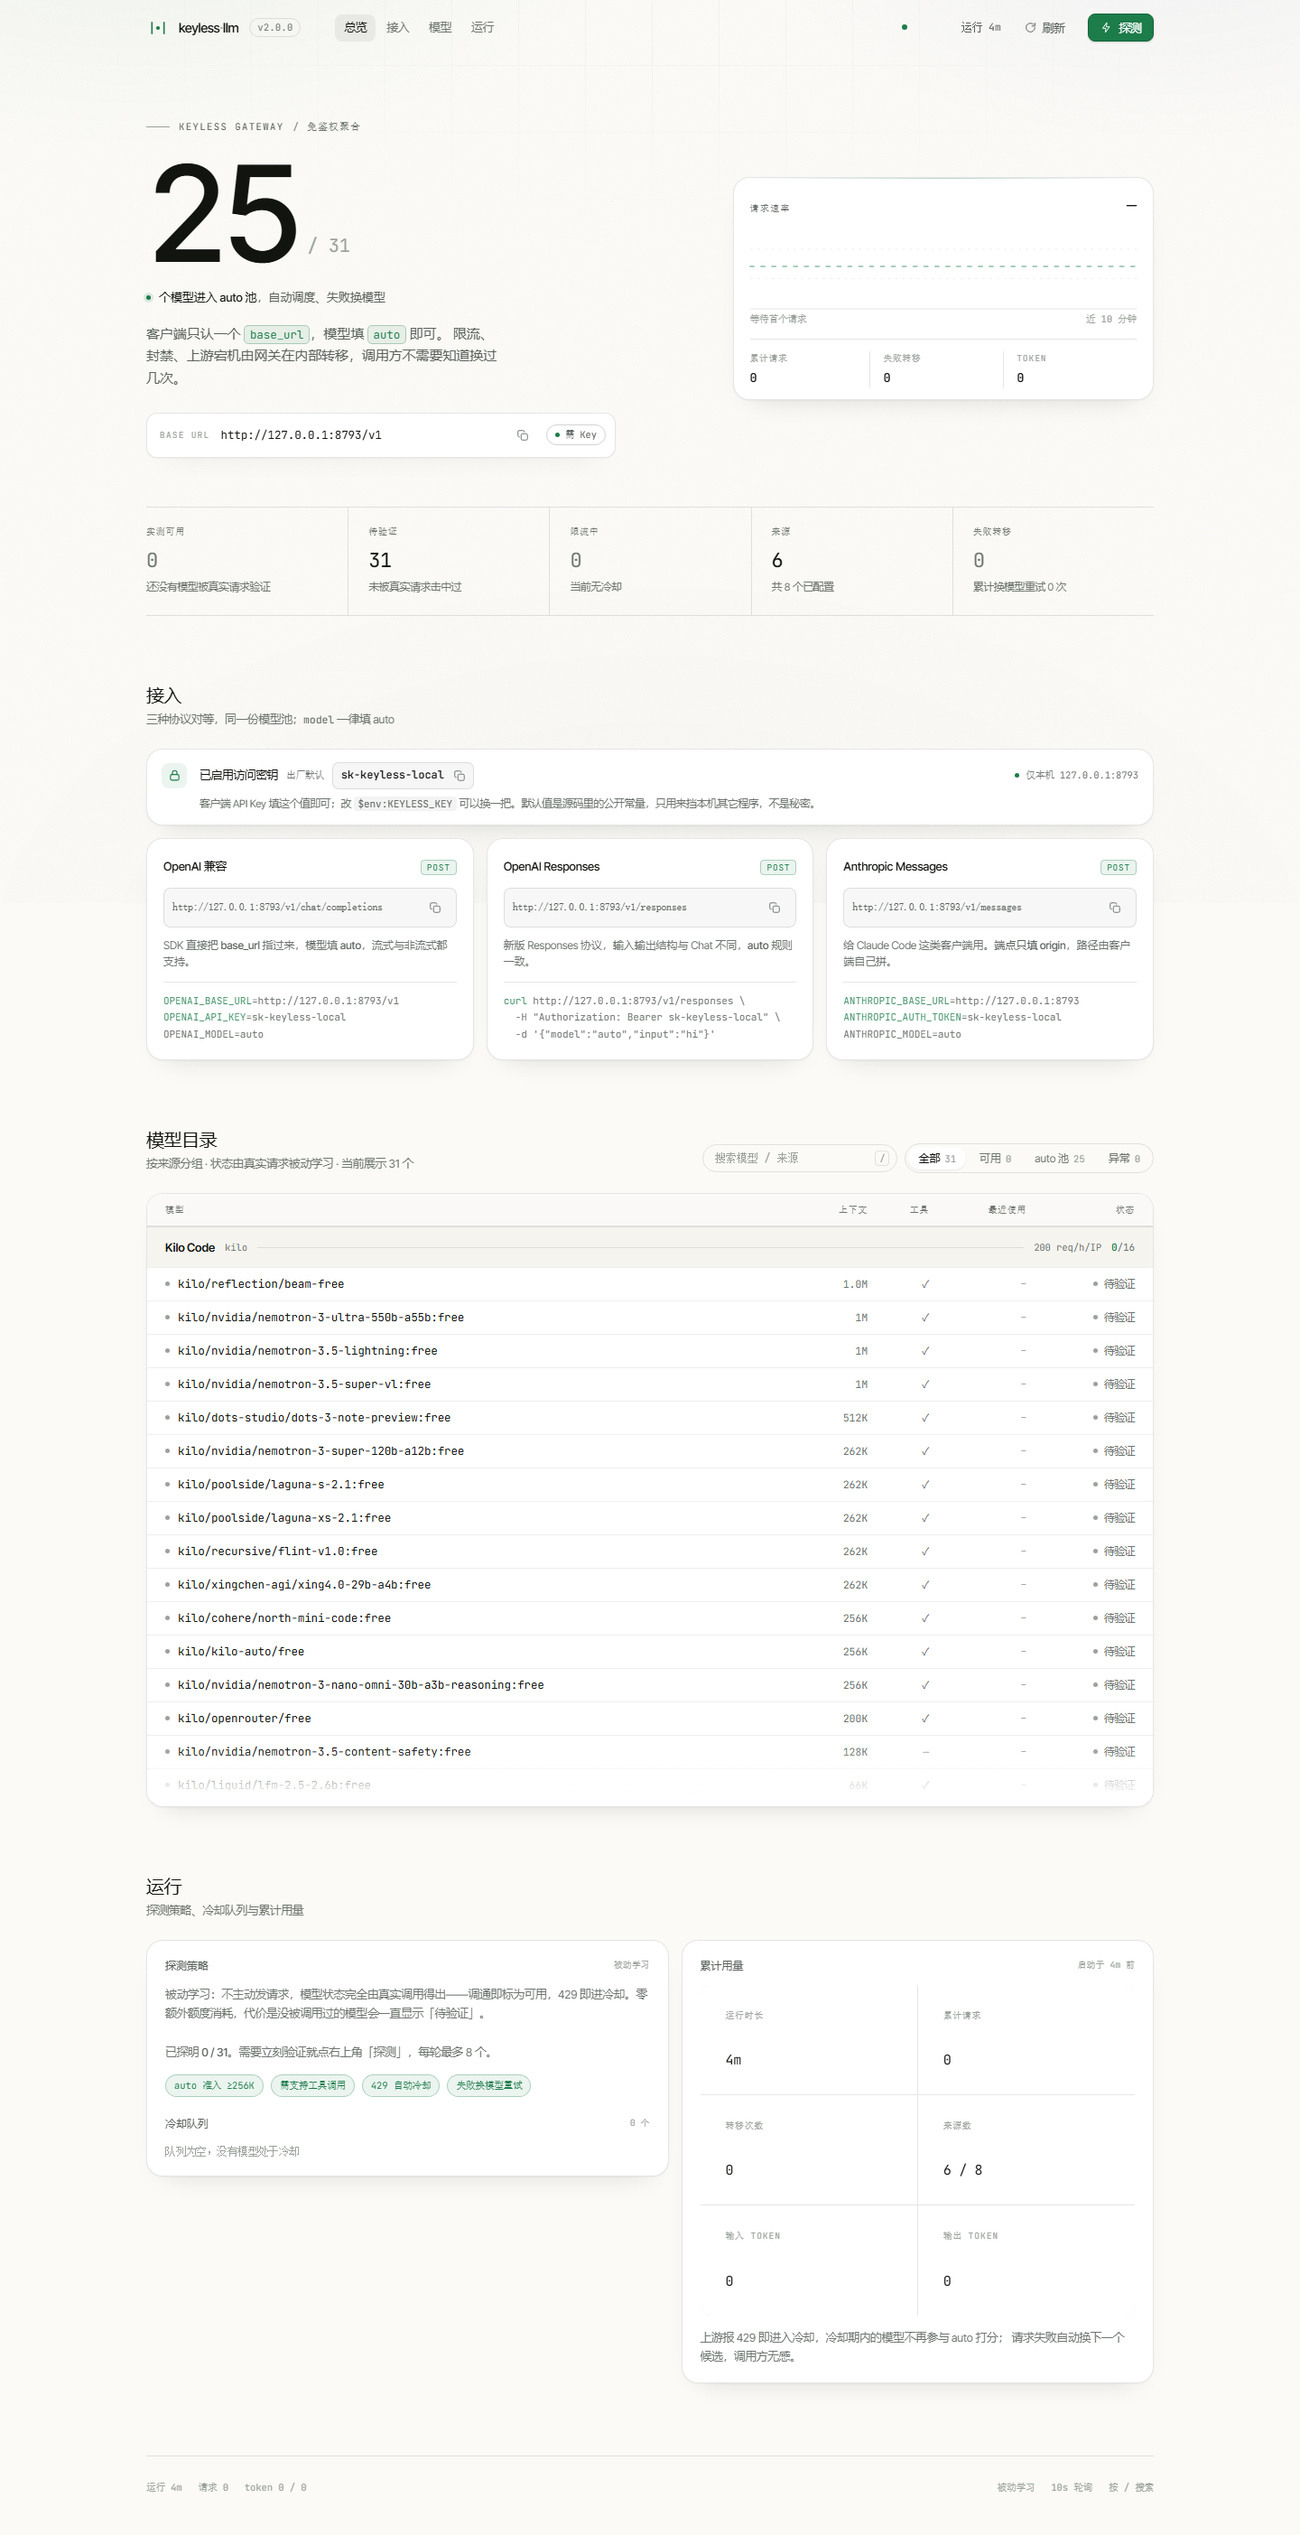
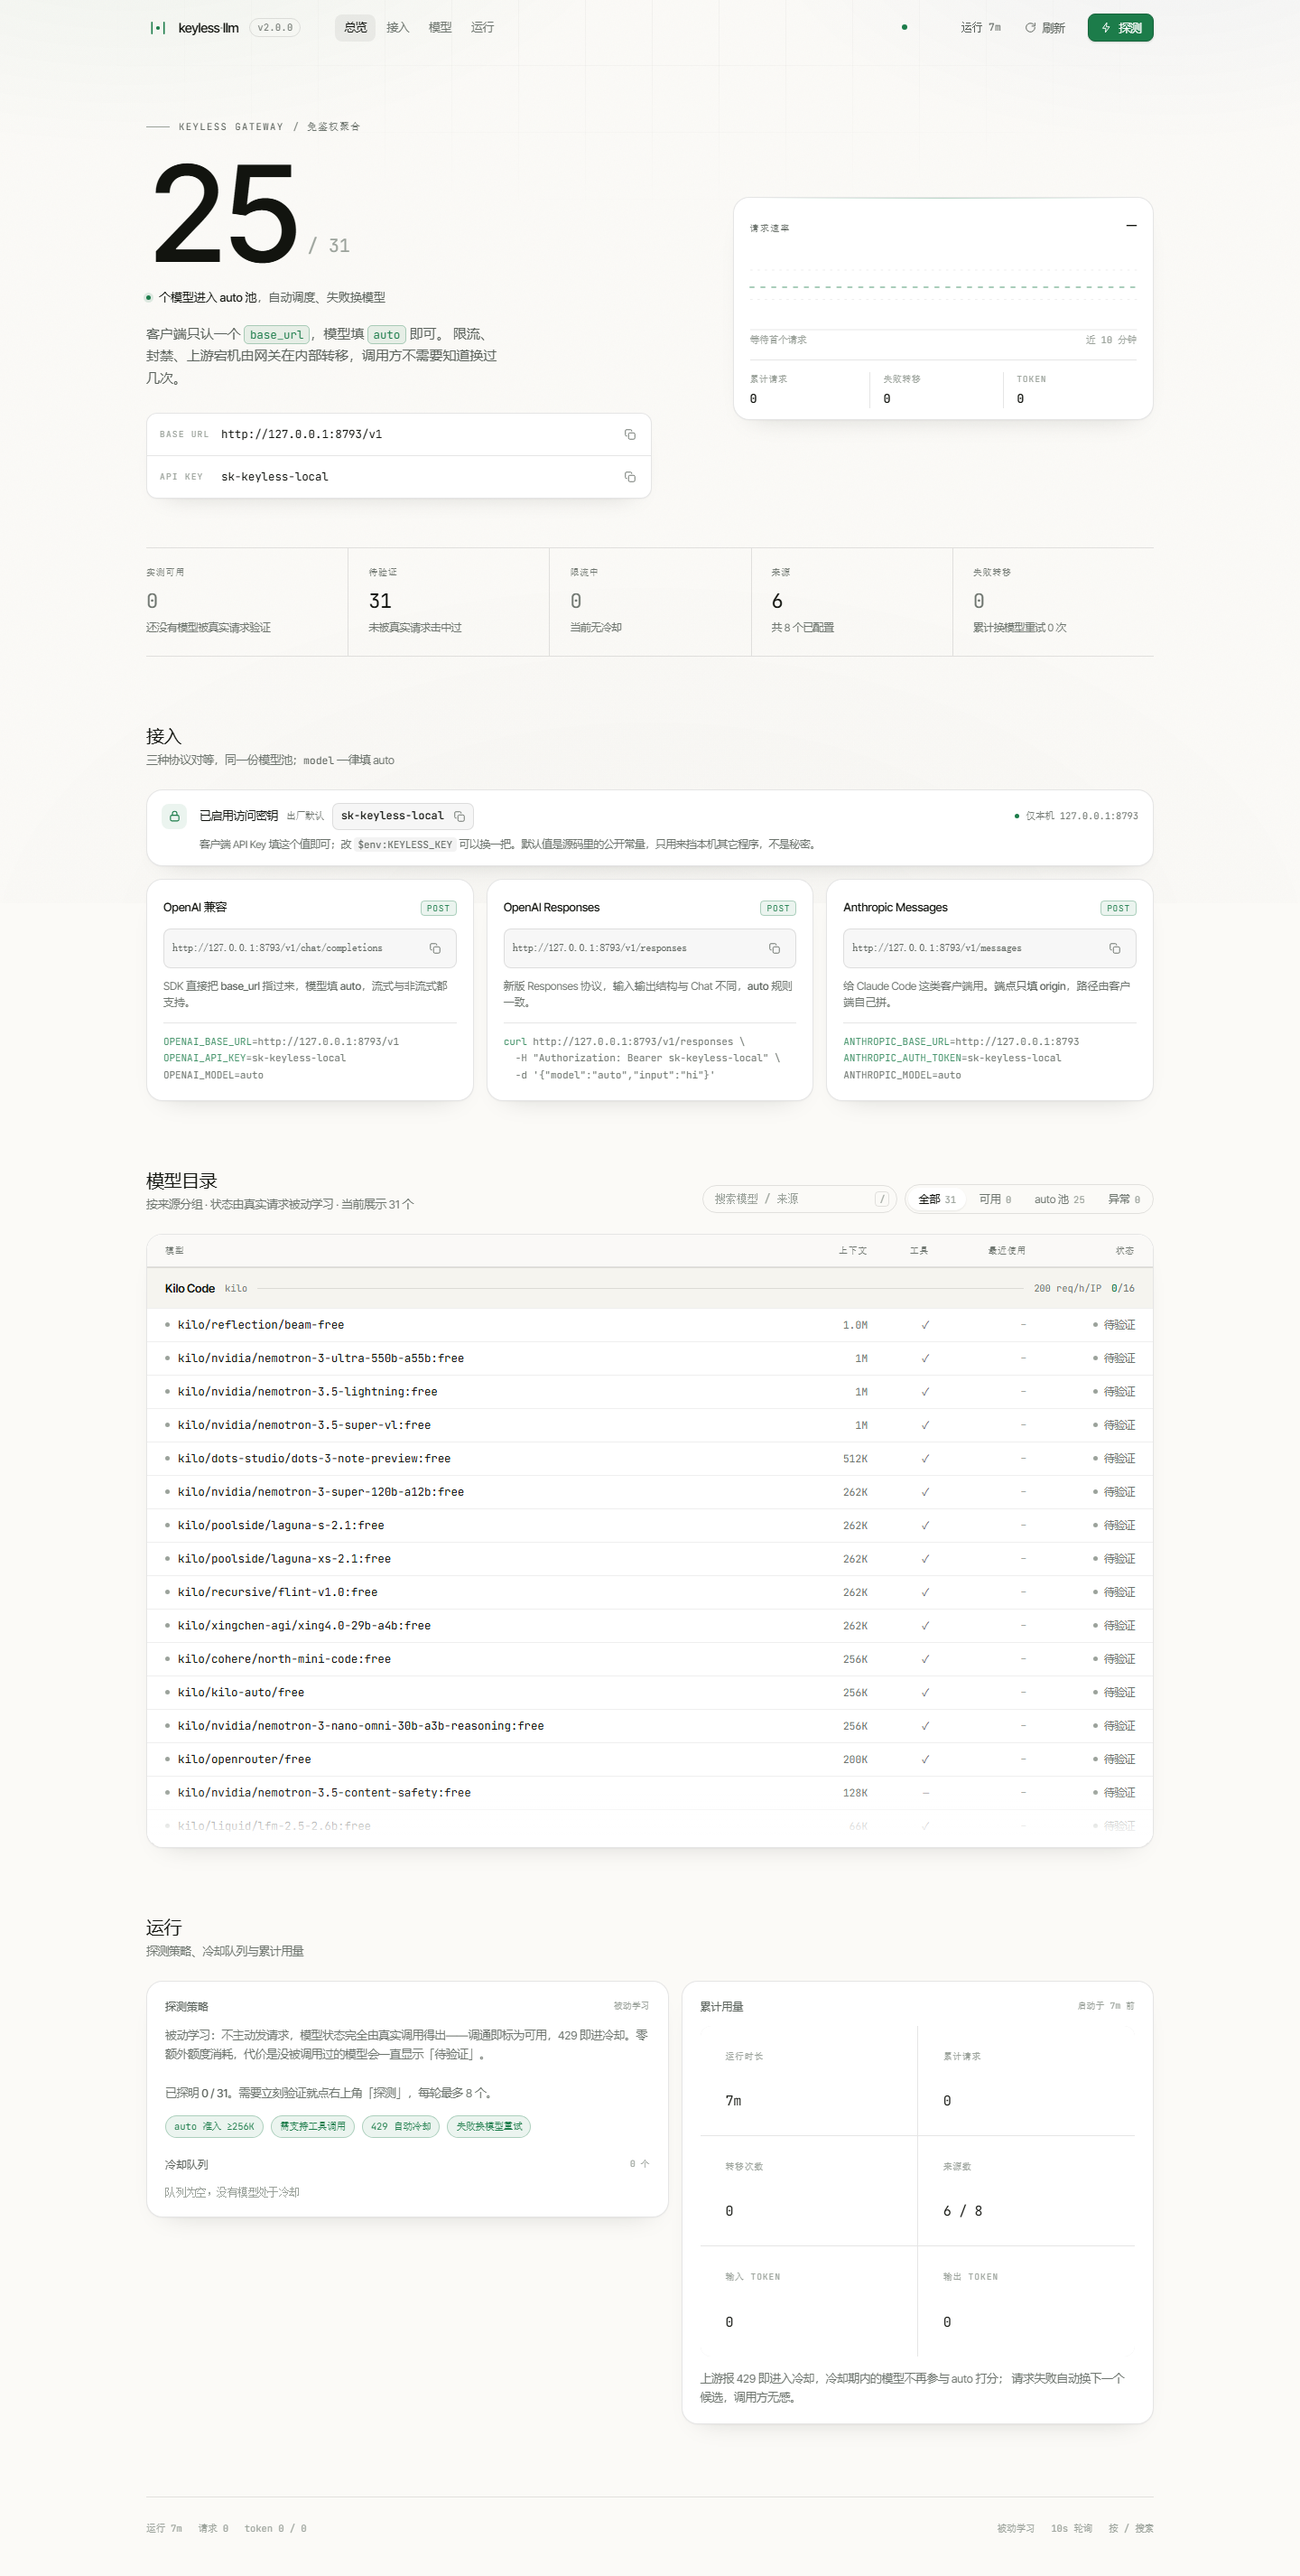
feat(web): 首屏直接给出默认 api key，base url 与 key 并排可复制
默认密钥 sk-keyless-local 是出厂就有的，之前却只在 README 里写了一句，
前端只给 base_url，等于让用户自己去猜 401 是怎么来的。

- 首屏原来的单行 base url 改成两行卡：base url / api key，各自带复制
- key 行按状态切换：出厂默认直接明文显示可复制；自定义显示「已自定义 · 不回显」
  并给箭头跳接入区；关掉鉴权显示琥珀色「未设置 · 本机任何程序都能调用」
- 清掉不再需要的 auth-badge 样式，复制高亮改挂到 .basecard
- README「关于密钥」重写，首屏描述同步

diff --git a/web/index.html b/web/index.html
@@ -177,34 +177,30 @@ body::after{
   white-space:nowrap;
 }
 
-.basebar{
-  display:flex;align-items:center;gap:12px;margin-top:26px;
+/* 首屏「怎么连」：base url 与 api key 两行并排，拿到就能用 */
+.basecard{
+  margin-top:26px;max-width:560px;
   border:1px solid var(--line);border-radius:var(--r-m);
-  background:var(--surface);box-shadow:var(--shadow-1);
-  padding:10px 10px 10px 14px;max-width:520px;
+  background:var(--surface);box-shadow:var(--shadow-1);overflow:hidden;
   transition:border-color .25s var(--ease),box-shadow .25s var(--ease);
 }
-.basebar:hover{border-color:var(--line-2)}
-.basebar .bk{
+.basecard:hover{border-color:var(--line-2)}
+.basecard .row2{
+  display:flex;align-items:center;gap:12px;padding:9px 9px 9px 14px;
+}
+.basecard .row2+.row2{border-top:1px solid var(--line)}
+.basecard .bk{
   font-family:var(--font-mono);font-size:9.5px;letter-spacing:.13em;text-transform:uppercase;
-  color:var(--fg-4);flex:none;
+  color:var(--fg-4);flex:none;width:56px;
 }
-.basebar code{
+.basecard code{
   font-family:var(--font-mono);font-size:12.5px;color:var(--fg);
-  flex:1;overflow:hidden;text-overflow:ellipsis;white-space:nowrap;
+  flex:1;min-width:0;overflow:hidden;text-overflow:ellipsis;white-space:nowrap;
 }
-.basebar.flash{border-color:var(--acc-line);box-shadow:0 0 0 3px var(--acc-soft)}
-.auth-badge{
-  display:inline-flex;align-items:center;gap:6px;height:23px;padding:0 9px;flex:none;
-  border:1px solid var(--line-2);border-radius:var(--r-pill);
-  font-family:var(--font-mono);font-size:10.5px;color:var(--fg-2);
-  text-decoration:none;white-space:nowrap;
-  transition:border-color .18s var(--ease),color .18s var(--ease),background .18s var(--ease);
-}
-.auth-badge:hover{color:var(--fg);border-color:var(--line-3);background:rgba(18,20,15,.03)}
-.auth-badge i{width:5px;height:5px;border-radius:50%;background:var(--warn);flex:none}
-.auth-badge.secure i{background:var(--acc)}
-.auth-badge.open{border-color:rgba(154,95,18,.35);color:var(--warn)}
+.basecard code.muted{color:var(--fg-3);font-family:var(--font-sans);font-size:12px}
+.basecard code.warn{color:var(--warn);font-family:var(--font-sans);font-size:12px}
+.basecard.flash{border-color:var(--acc-line);box-shadow:0 0 0 3px var(--acc-soft)}
+.icon-btn[hidden]{display:none}
 
 .icon-btn{
   display:grid;place-items:center;width:28px;height:28px;flex:none;
@@ -555,7 +551,7 @@ footer .r{margin-left:auto;display:flex;gap:18px;flex-wrap:wrap}
   .search input,.search input:focus{width:100%}
   .chips{justify-content:space-between}
   .chip{padding:0 8px}
-  .basebar{max-width:none}
+  .basecard{max-width:none}
   .ver{display:none}
   .live-tx{display:none}
 }
@@ -631,15 +627,24 @@ footer .r{margin-left:auto;display:flex;gap:18px;flex-wrap:wrap}
             客户端只认一个 <code>base_url</code>，模型填 <code>auto</code> 即可。
             限流、封禁、上游宕机由网关在内部转移，调用方不需要知道换过几次。
           </p>
-          <div class="basebar" id="basebar" data-fx>
-            <span class="bk">base url</span>
-            <code id="base-url">http://127.0.0.1:8788/v1</code>
-            <button class="icon-btn" data-copy="" id="copy-base" title="复制">
-              <svg viewBox="0 0 24 24" fill="none" stroke="currentColor" stroke-width="1.7" stroke-linecap="round" stroke-linejoin="round"><rect x="9" y="9" width="12" height="12" rx="2.5"/><path d="M5.5 15H5a2 2 0 0 1-2-2V5a2 2 0 0 1 2-2h8a2 2 0 0 1 2 2v.5"/></svg>
-            </button>
-            <a class="auth-badge" id="base-auth" href="#connect" title="客户端要不要带密钥，点开看接入说明">
-              <i></i><span id="base-auth-tx">校验中</span>
-            </a>
+          <div class="basecard" id="basecard" data-fx>
+            <div class="row2">
+              <span class="bk">base url</span>
+              <code id="base-url">http://127.0.0.1:8788/v1</code>
+              <button class="icon-btn" data-copy="" id="copy-base" title="复制 base url">
+                <svg viewBox="0 0 24 24" fill="none" stroke="currentColor" stroke-width="1.7" stroke-linecap="round" stroke-linejoin="round"><rect x="9" y="9" width="12" height="12" rx="2.5"/><path d="M5.5 15H5a2 2 0 0 1-2-2V5a2 2 0 0 1 2-2h8a2 2 0 0 1 2 2v.5"/></svg>
+              </button>
+            </div>
+            <div class="row2">
+              <span class="bk">api key</span>
+              <code id="api-key">sk-keyless-local</code>
+              <button class="icon-btn" data-copy="" id="copy-key" title="复制 api key">
+                <svg viewBox="0 0 24 24" fill="none" stroke="currentColor" stroke-width="1.7" stroke-linecap="round" stroke-linejoin="round"><rect x="9" y="9" width="12" height="12" rx="2.5"/><path d="M5.5 15H5a2 2 0 0 1-2-2V5a2 2 0 0 1 2-2h8a2 2 0 0 1 2 2v.5"/></svg>
+              </button>
+              <a class="icon-btn" id="key-help" href="#connect" title="怎么换一把" hidden>
+                <svg viewBox="0 0 24 24" fill="none" stroke="currentColor" stroke-width="1.7" stroke-linecap="round" stroke-linejoin="round"><path d="M5 12h14"/><path d="m13 6 6 6-6 6"/></svg>
+              </a>
+            </div>
           </div>
         </div>
 
@@ -1034,13 +1039,27 @@ footer .r{margin-left:auto;display:flex;gap:18px;flex-wrap:wrap}
       '<div class="anote">' + note + '</div>' +
       '<span class="aside ' + bindTx[0] + '"><i></i>' + esc(bindTx[1]) + '</span>';
 
-    // 首屏徽章
-    const badge = $('#base-auth');
-    badge.className = 'auth-badge ' + (a.required ? 'secure' : 'open');
-    $('#base-auth-tx').textContent = a.required ? '需 Key' : '无 Key';
-    badge.title = a.required
-      ? '已启用访问密钥，客户端需带 Authorization —— 点开看接入说明'
-      : '未设置访问密钥 —— 点开看怎么加一把';
+    // 首屏 key 行：默认值直接摆出来，能复制；自定义/未设置则给跳转
+    const kEl = $('#api-key'), kBtn = $('#copy-key'), kHelp = $('#key-help');
+    if (!a.required) {
+      kEl.textContent = '未设置 · 本机任何程序都能调用';
+      kEl.className = 'warn';
+      kBtn.hidden = true;
+      kHelp.hidden = false;
+      kHelp.title = '怎么加一把';
+    } else if (a.builtin) {
+      kEl.textContent = BUILTIN_KEY;
+      kEl.className = '';
+      kBtn.hidden = false;
+      kBtn.dataset.copy = BUILTIN_KEY;
+      kHelp.hidden = true;
+    } else {
+      kEl.textContent = '已自定义 · 不回显';
+      kEl.className = 'muted';
+      kBtn.hidden = true;
+      kHelp.hidden = false;
+      kHelp.title = '这个密钥在哪';
+    }
   }
 
   /* ── 接入卡片 ───────────────────────────────────────── */
@@ -1204,7 +1223,7 @@ footer .r{margin-left:auto;display:flex;gap:18px;flex-wrap:wrap}
     copy(b.dataset.copy || '');
     b.classList.add('done');
     setTimeout(() => b.classList.remove('done'), 1400);
-    const bar = b.closest('.basebar');
+    const bar = b.closest('.basecard');
     if (bar) { bar.classList.add('flash'); setTimeout(() => bar.classList.remove('flash'), 900); }
   });
 

diff --git a/README.md b/README.md
@@ -353,7 +353,7 @@ nemotron-3.5-lightning:free  → kilo/nvidia/nemotron-3.5-lightning:free
 
 | 区块 | 看什么 |
 | --- | --- |
-| 首屏 | `25 / 31`：进入 auto 池的模型数 / 已接入总数；右侧是近 10 分钟请求速率曲线；base URL 旁标着要不要 Key |
+| 首屏 | `25 / 31`：进入 auto 池的模型数 / 已接入总数；右侧是近 10 分钟请求速率曲线；下面是 `base url` + `api key` 两行，各带复制 |
 | 指标行 | 实测可用 · 待验证 · 限流中 · 来源数 · 失败转移次数 |
 | 接入 | 鉴权面板（密钥是什么、要不要带、绑在哪个地址）+ 三种协议的完整地址与可直接粘贴的环境变量 |
 | 模型目录 | 按来源分组，每行：模型名、上下文、是否支持工具调用、最近使用、状态；自带滚动区，表头钉住 |
@@ -363,12 +363,13 @@ nemotron-3.5-lightning:free  → kilo/nvidia/nemotron-3.5-lightning:free
 
 ### 关于密钥
 
-网关默认带一个本地密钥 `sk-keyless-local`（只用来挡本机其它程序，源码里的公开常量）。控制台会把这件事说清楚，而不是让你去翻 README：
+网关出厂就带一个默认密钥 `sk-keyless-local`——它是源码里的公开常量，只用来挡本机其它程序，不是秘密，所以控制台直接把它摆出来，而不是让你去翻文档：
 
-- 首屏 base URL 旁有 `需 Key` / `无 Key` 徽章，点一下跳到接入区
-- 接入区顶部显示当前密钥（出厂默认值直接给出、可复制；自定义的只提示去环境变量取，不回显）
-- 三张协议卡的示例里，需要密钥时自动带上 `OPENAI_API_KEY=` / `ANTHROPIC_AUTH_TOKEN=` / `-H "Authorization: Bearer ..."`，复制就能跑
-- 右侧标出监听地址：`仅本机 127.0.0.1:8788`，改成 `0.0.0.0` 会变成红色警告
+- **首屏第二行就是 `api key`**，默认值明文显示、点一下复制；换成自己的密钥后这行显示「已自定义 · 不回显」并给个箭头跳到说明
+- 关掉鉴权（`KEYLESS_KEY=""`）时这行变琥珀色警告：「未设置 · 本机任何程序都能调用」
+- 接入区顶部有完整面板：密钥是什么、写给谁、绑在哪个地址
+- 三张协议卡的示例按鉴权状态生成，需要密钥时自动带上 `OPENAI_API_KEY=` / `ANTHROPIC_AUTH_TOKEN=` / `-H "Authorization: Bearer ..."`，复制就能跑
+- 右侧标出监听地址：`仅本机 127.0.0.1:8788` 是绿的，改成 `0.0.0.0` 会变红
 
 `/v1/status` 只返回「要不要密钥」「是不是出厂默认值」，不返回密钥本身：
 
